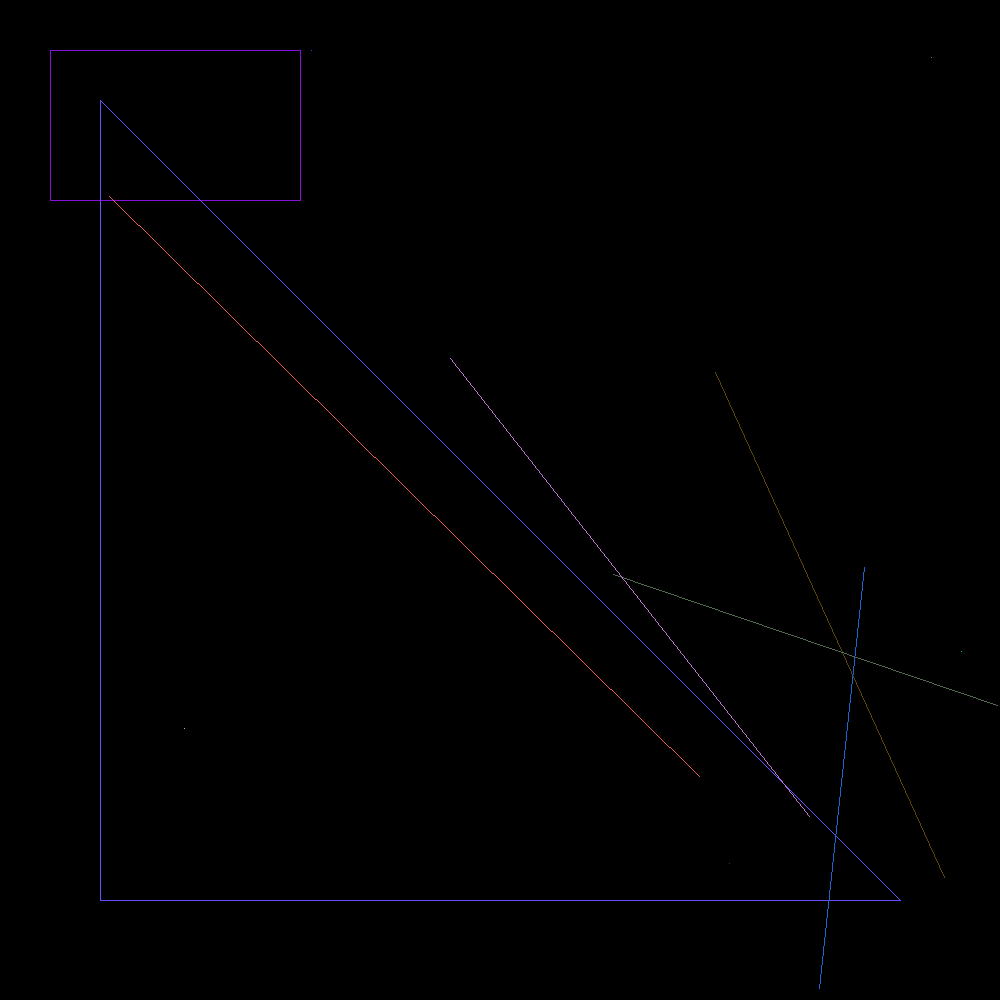
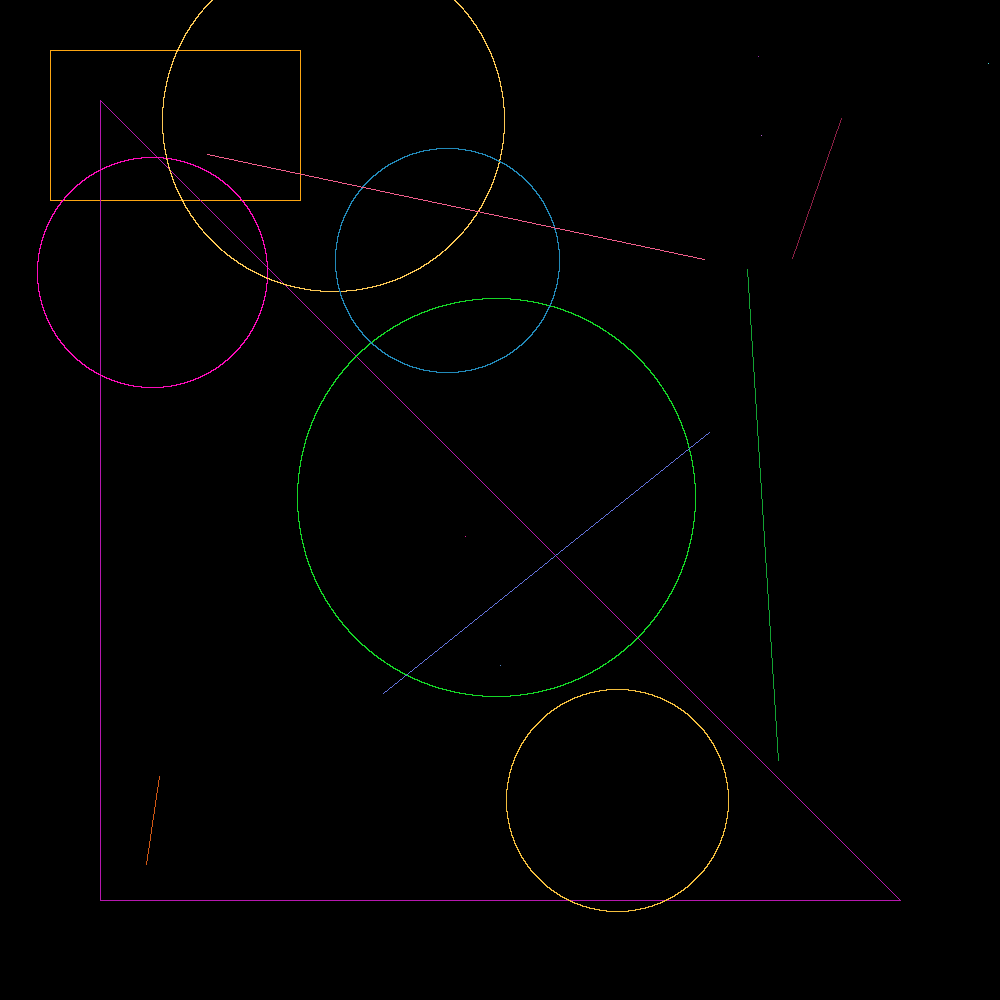
adding circle logic

Changed region(s): [[0.155, 0.155, 0.186, 0.186]]

diff --git a/geo_shapes/Circle.java b/geo_shapes/Circle.java
@@ -1,0 +1,45 @@
+package geo_shapes;
+
+import java.awt.Color;
+import java.util.Random;
+
+public class Circle implements Drawable {
+    public Point center;
+    public int radius;
+    public Color color;
+
+    public Circle(Point center, int radius) {
+        this.center = center;
+        this.radius = radius;
+        this.color = Point.randomColor();
+    }
+
+    public static Circle random(int width, int height) {
+        Random rand = new Random();
+        Point center = new Point(rand.nextInt(width), rand.nextInt(height));
+        int radius = rand.nextInt(191) + 10;
+        return new Circle(center, radius);
+    }
+
+    @Override
+    public void draw(Displayable displayable) {
+        int steps = 180 * radius;
+        Color color = this.color;
+
+        for (int i = 0; i < steps; i++) {
+            double theta = ((double) i * Math.PI) / steps;
+
+            double x = center.getX() + radius * Math.cos(theta);
+            double y = center.getY() + radius * Math.sin(theta);
+            double minusY = center.getY() - radius * Math.sin(theta);
+
+            displayable.display((int) Math.round(x), (int) Math.round(y), color);
+            displayable.display((int) Math.round(x), (int) Math.round(minusY), color);
+        }
+    }
+
+    @Override
+    public Color getColor() {
+        return color;
+    }
+}

diff --git a/Main.java b/Main.java
@@ -11,8 +11,8 @@ public class Main {
         for (int i = 0; i < 5; i++) {
             Point point = Point.random(image.getWidth(), image.getHeight());
             point.draw(image);
-            // Circle circle = Circle.random(image.getWidth(), image.getHeight());
-            // circle.draw(image);
+            Circle circle = Circle.random(image.getWidth(), image.getHeight());
+            circle.draw(image);
         }
 
          for (int i = 0; i < 5; i++) {
